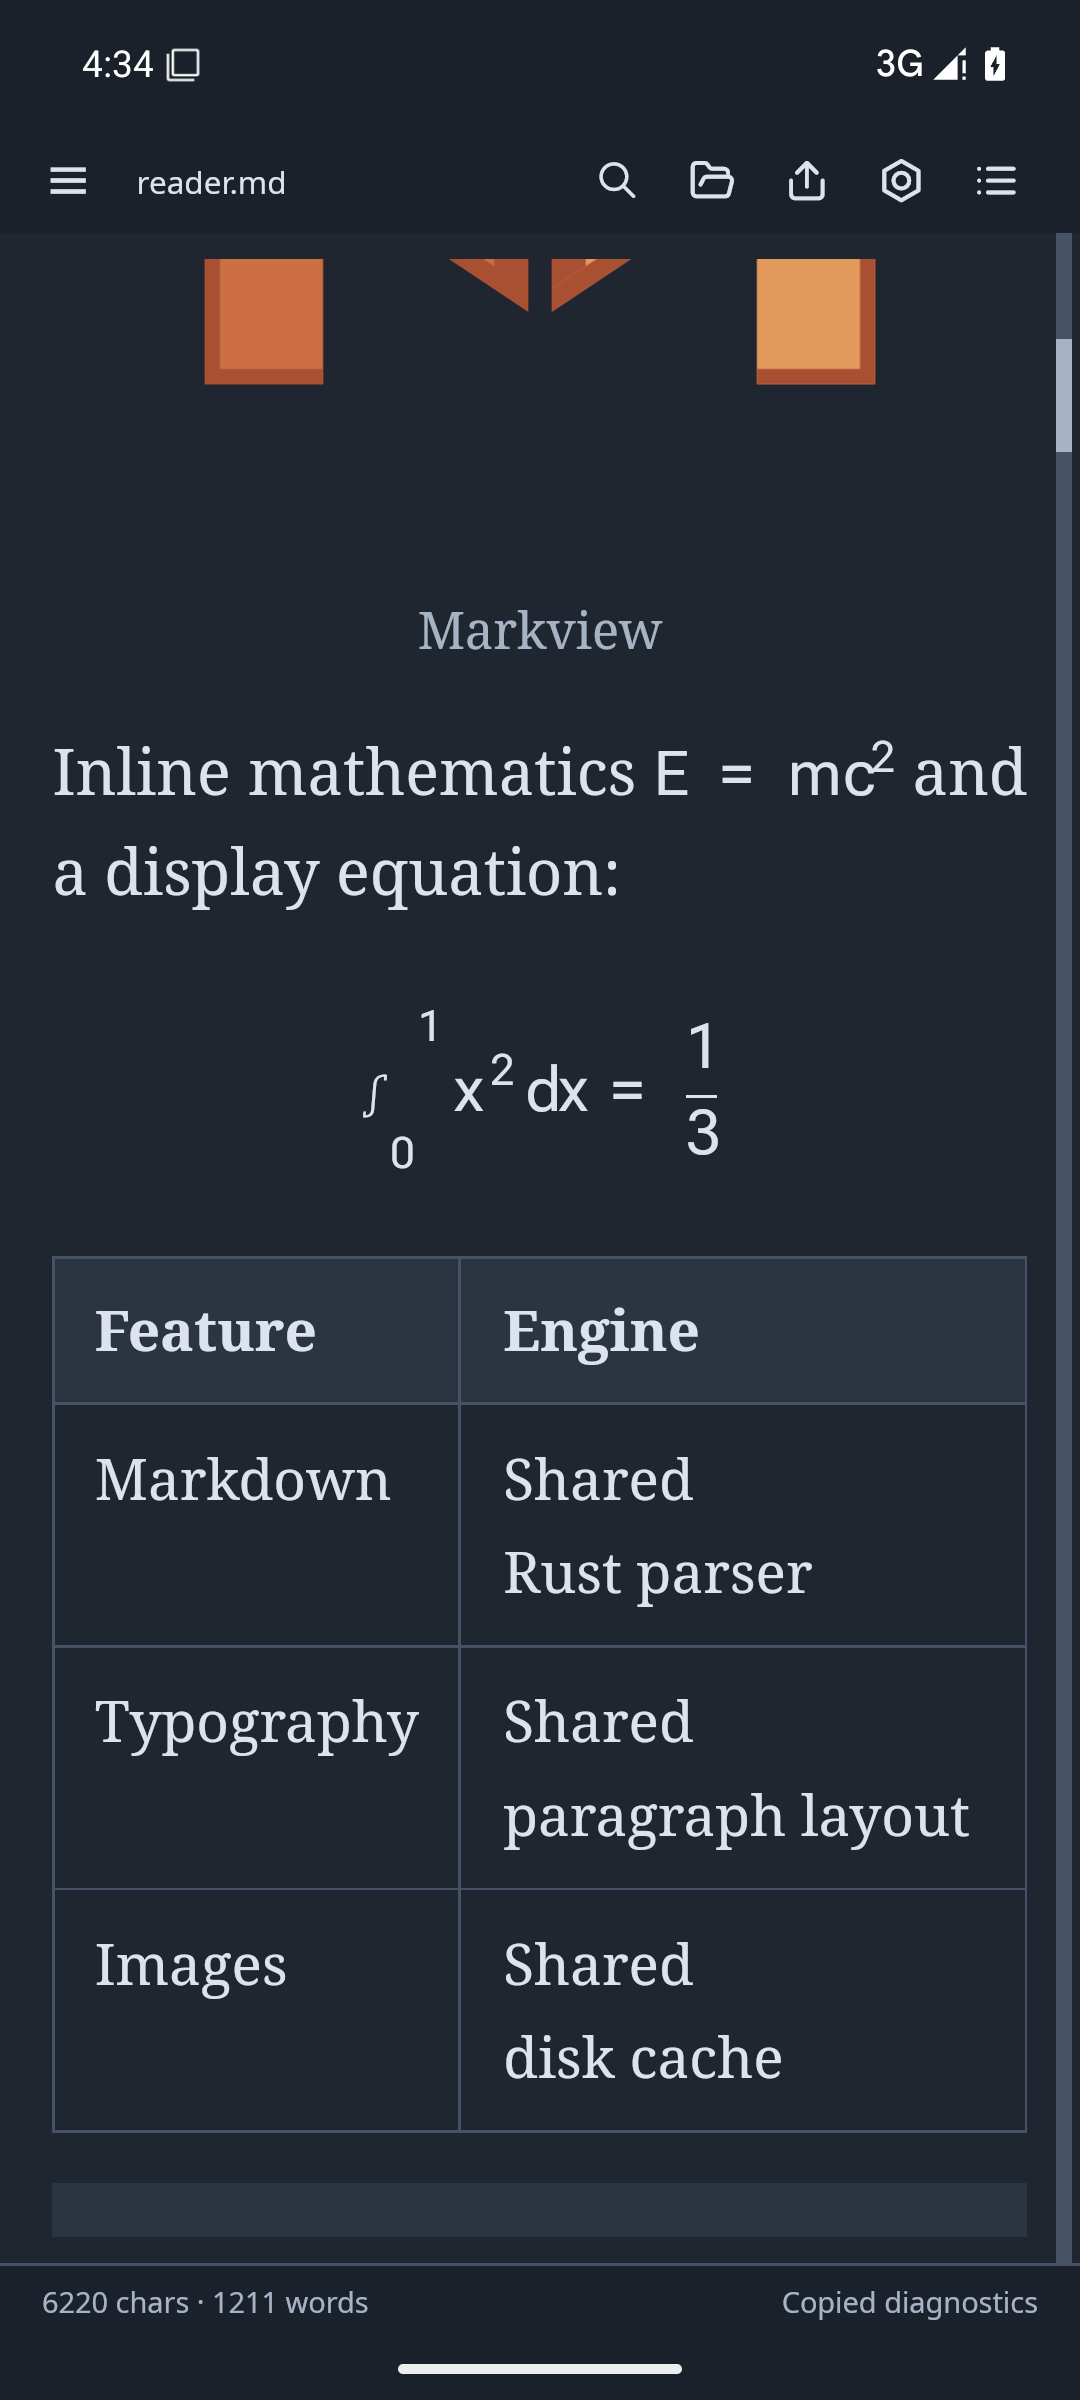
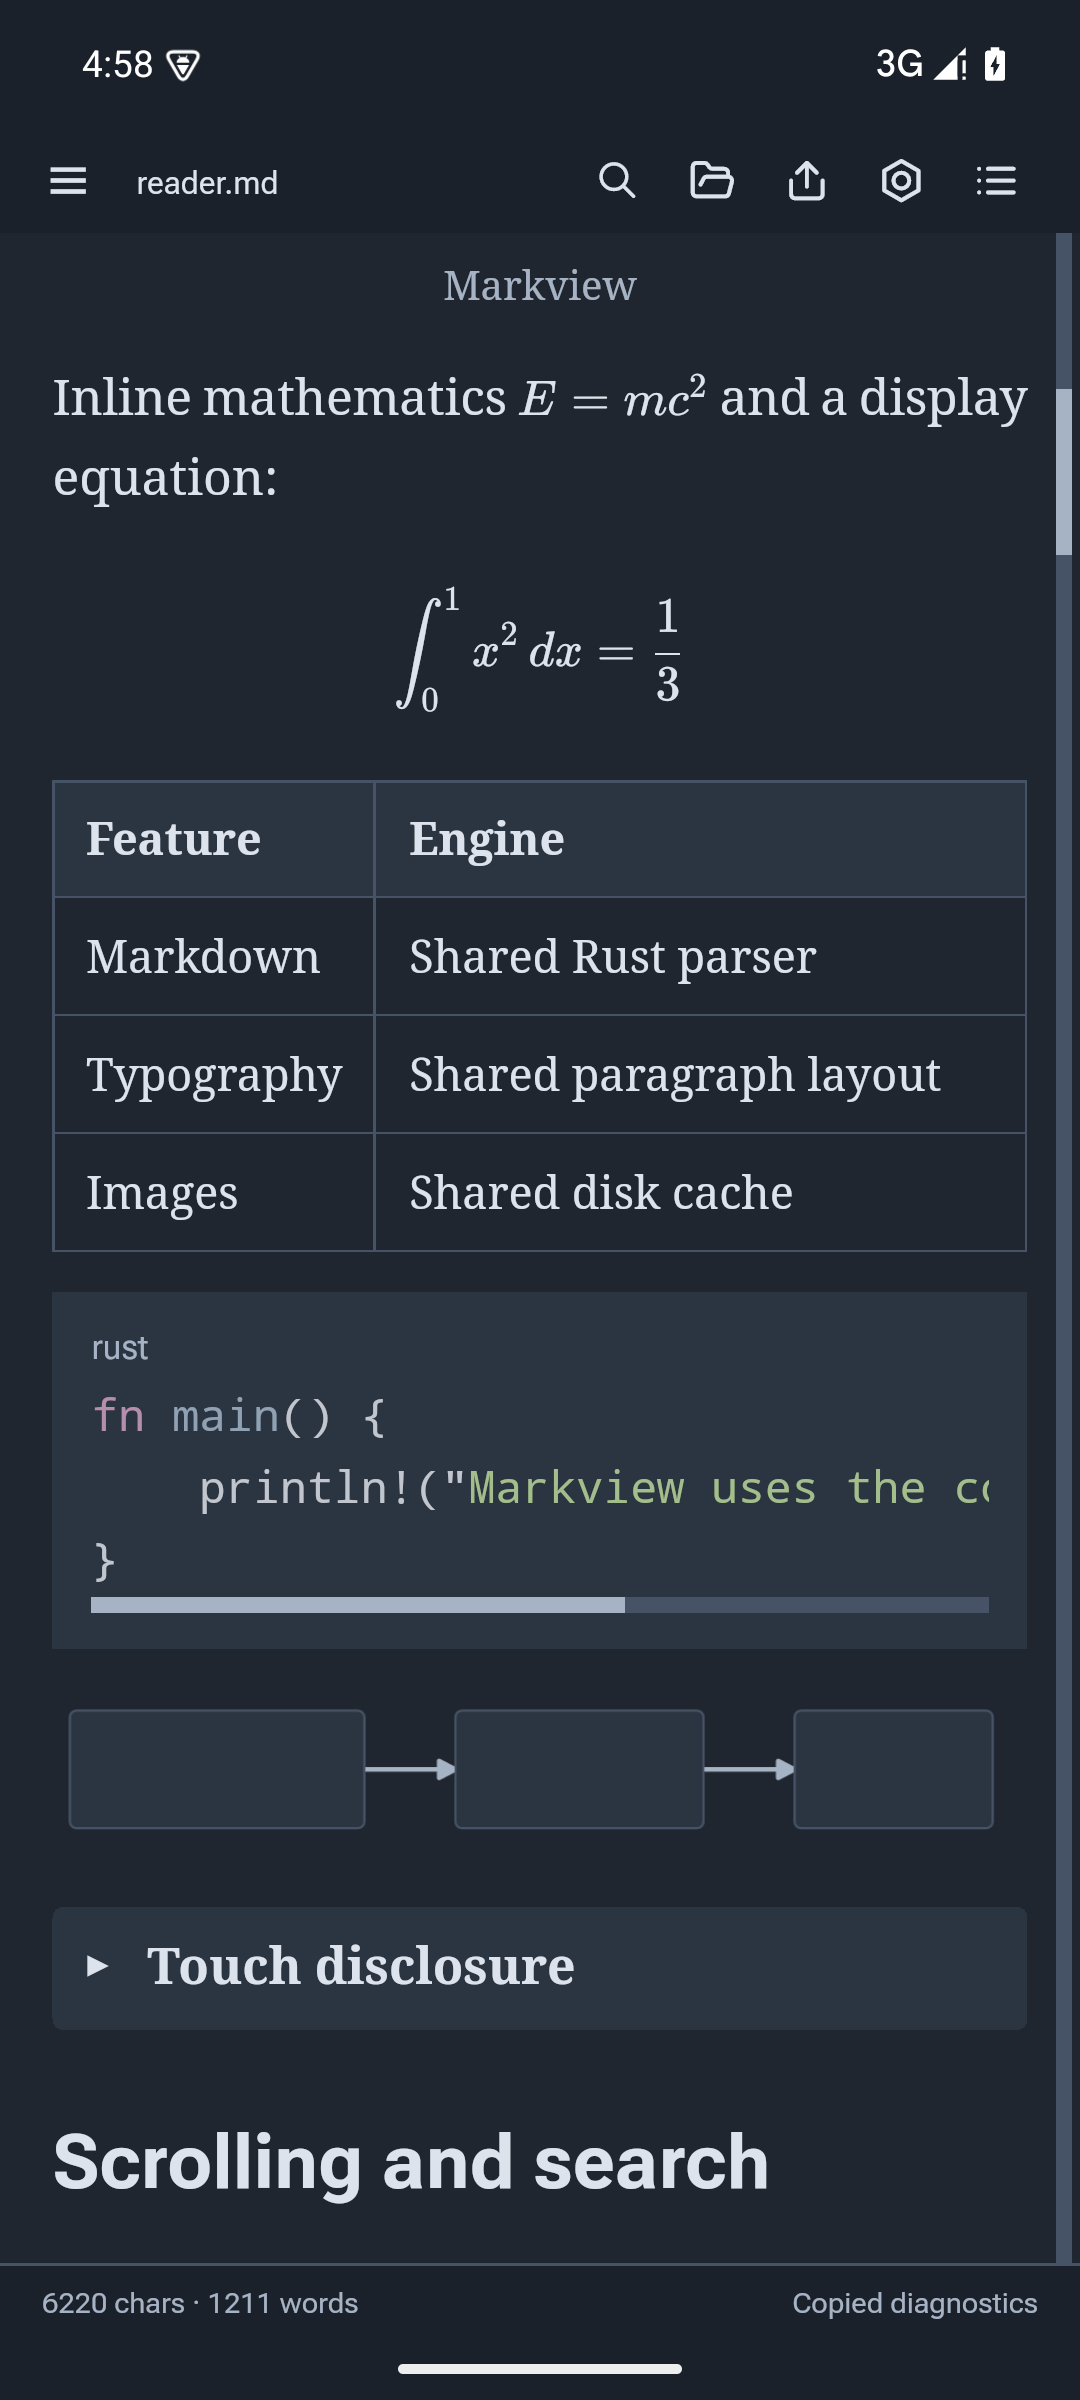
fix: preserve android math and monospace fonts

diff --git a/android/tests/io/github/szdytom/markview/Smoke.java b/android/tests/io/github/szdytom/markview/Smoke.java
@@ -117,7 +117,7 @@ public class Smoke extends Instrumentation {
                 waitFor(s -> s.optBoolean("outline_open") && s.optString("panel").equals("Closed"));
                 swipe(100, 180, 280, 180);
                 waitFor(s -> s.optString("panel").equals("Tabs") && !s.optBoolean("outline_open"));
-                screenshot("tab-drawer");
+                screenshot("tab-drawer-light");
             } else {
                 require(button(state(), "Tabs") == null, "Tablet keeps the desktop tab strip");
                 swipe(45, 20, 185, 20);
@@ -174,6 +174,13 @@ public class Smoke extends Instrumentation {
             require(!state().getBoolean("instance_listener"), "Android does not register the desktop instance listener");
             screenshot("dark-reader");
             checkSystemBars(false);
+            if (phone) {
+                tap("Tabs");
+                waitFor(s -> s.optString("panel").equals("Tabs"));
+                screenshot("tab-drawer");
+                sendKeyDownUpSync(KeyEvent.KEYCODE_BACK);
+                waitFor(s -> s.optString("panel").equals("Closed"));
+            }
             pass("Shared settings, typography, font catalogue and styles without desktop file controls");
 
             tap("SearchOpen");
@@ -202,9 +209,13 @@ public class Smoke extends Instrumentation {
                 tap("Settings");
                 waitFor(s -> s.optString("panel").equals("Settings(Generic)"));
                 requireSettingsLayout();
+                for (int i = 0; i < 9; i++) tap("Wider");
+                waitFor(s -> s.optDouble("column_width") >= 760);
                 screenshot("landscape-settings");
                 sendKeyDownUpSync(KeyEvent.KEYCODE_BACK);
                 waitFor(s -> s.optString("panel").equals("Closed"));
+                stableLayout();
+                screenshot("tablet-tabs");
                 pass("Tablet rotation and centered settings dialog");
             }
             getUiAutomation().setRotation(portraitRotation);
@@ -282,6 +293,8 @@ public class Smoke extends Instrumentation {
             require(pdf.isFile() && pdf.length() > 100, "Native PDF export");
             byte[] bytes = Files.readAllBytes(pdf.toPath());
             require(new String(bytes, 0, 5, StandardCharsets.US_ASCII).equals("%PDF-"), "PDF header");
+            String pdfSource = new String(bytes, StandardCharsets.ISO_8859_1);
+            require(pdfSource.contains("KaTeX_Main") && pdfSource.contains("KaTeX_Math") && pdfSource.contains("KaTeX_Size"), "PDF embeds bundled KaTeX fonts for inline and display mathematics");
             SystemClock.sleep(800);
             java.lang.reflect.Field field = MarkviewActivity.class.getDeclaredField("exports");
             field.setAccessible(true);

diff --git a/android/test.py b/android/test.py
@@ -67,7 +67,7 @@ def main():
     (artifacts / "integration.txt").write_text(report)
     print(report)
     assert result.returncode == 0 and "MARKVIEW_ANDROID_INTEGRATION_OK" in report, "Android integration tests failed"
-    screenshots = ["reader", "dark-reader", "settings", "fonts", "font-choices", "dark-styles", "diagnostics", "search", "resumed", "folder"] + (["tab-drawer"] if args.layout == "phone" else ["landscape", "landscape-settings"])
+    screenshots = ["reader", "dark-reader", "settings", "fonts", "font-choices", "dark-styles", "diagnostics", "search", "resumed", "folder"] + (["tab-drawer", "tab-drawer-light"] if args.layout == "phone" else ["tablet-tabs", "landscape", "landscape-settings"])
     if args.layout_only:
         screenshots = ["reader", "settings", "layout"] + (["landscape-settings"] if args.layout == "tablet" else [])
     if args.lifecycle_only:

diff --git a/crates/markview-pdf/tests/export.rs b/crates/markview-pdf/tests/export.rs
@@ -19,6 +19,23 @@ struct Exported {
 	anchors: std::collections::HashMap<String, (usize, f32)>,
 }
 
+#[test]
+fn math_fonts_are_embedded_in_debug_builds() {
+	for name in [
+		"Main-Regular",
+		"Math-Italic",
+		"Size1-Regular",
+		"Size2-Regular",
+	] {
+		let bytes =
+			ratex_katex_fonts::ttf_bytes(&format!("KaTeX_{name}.ttf")).unwrap();
+		assert!(
+			matches!(bytes, std::borrow::Cow::Borrowed(_)),
+			"{name} must not require the build machine's font directory"
+		);
+	}
+}
+
 /// One document's laid-out inputs, kept so a test can export them more than
 /// once, with and without a reused renderer.
 struct Inputs {

diff --git a/crates/markview-render/src/raster/tests.rs b/crates/markview-render/src/raster/tests.rs
@@ -1,6 +1,23 @@
 use super::GlyphOrigin;
 
 #[test]
+fn math_fonts_are_embedded_in_debug_builds() {
+	for name in [
+		"Main-Regular",
+		"Math-Italic",
+		"Size1-Regular",
+		"Size2-Regular",
+	] {
+		let bytes =
+			ratex_katex_fonts::ttf_bytes(&format!("KaTeX_{name}.ttf")).unwrap();
+		assert!(
+			matches!(bytes, std::borrow::Cow::Borrowed(_)),
+			"{name} must not require the build machine's font directory"
+		);
+	}
+}
+
+#[test]
 fn outline_colors_convert_to_straight_alpha() {
 	let mut rgba = [64, 32, 0, 128, 90, 80, 70, 255, 1, 2, 3, 0];
 	super::color::unpremultiply(&mut rgba);

diff --git a/CHANGELOG.md b/CHANGELOG.md
@@ -59,6 +59,8 @@ at the same level, without `[brackets]`.
 
 ### Fixed
 
+- Add Droid Sans Mono before the generic monospace fallback in builtin and artist MVSS themes.
+- Embed KaTeX fonts in debug builds so Android formulas and PDF exports use the bundled math faces.
 - Blend Android system bars into the reader chrome in light and dark styles while keeping controls inside the safe area.
 - Support touchscreen dragging and edge resizing of custom window frames on Linux, using the touch contact's native serial on Wayland.
 - Exit and recreate the Android reader cleanly when its Activity is destroyed, using a pinned winit fork.

diff --git a/android/tests/assets/folder.md b/android/tests/assets/folder.md
@@ -2,4 +2,10 @@
 
 ![Local image](images/logo.svg)
 
+Inline mathematics $E = mc^2$ and a display equation:
+
+$$
+\int_0^1 x^2\,dx = \frac{1}{3}
+$$
+
 [Next chapter](chapter.md)
